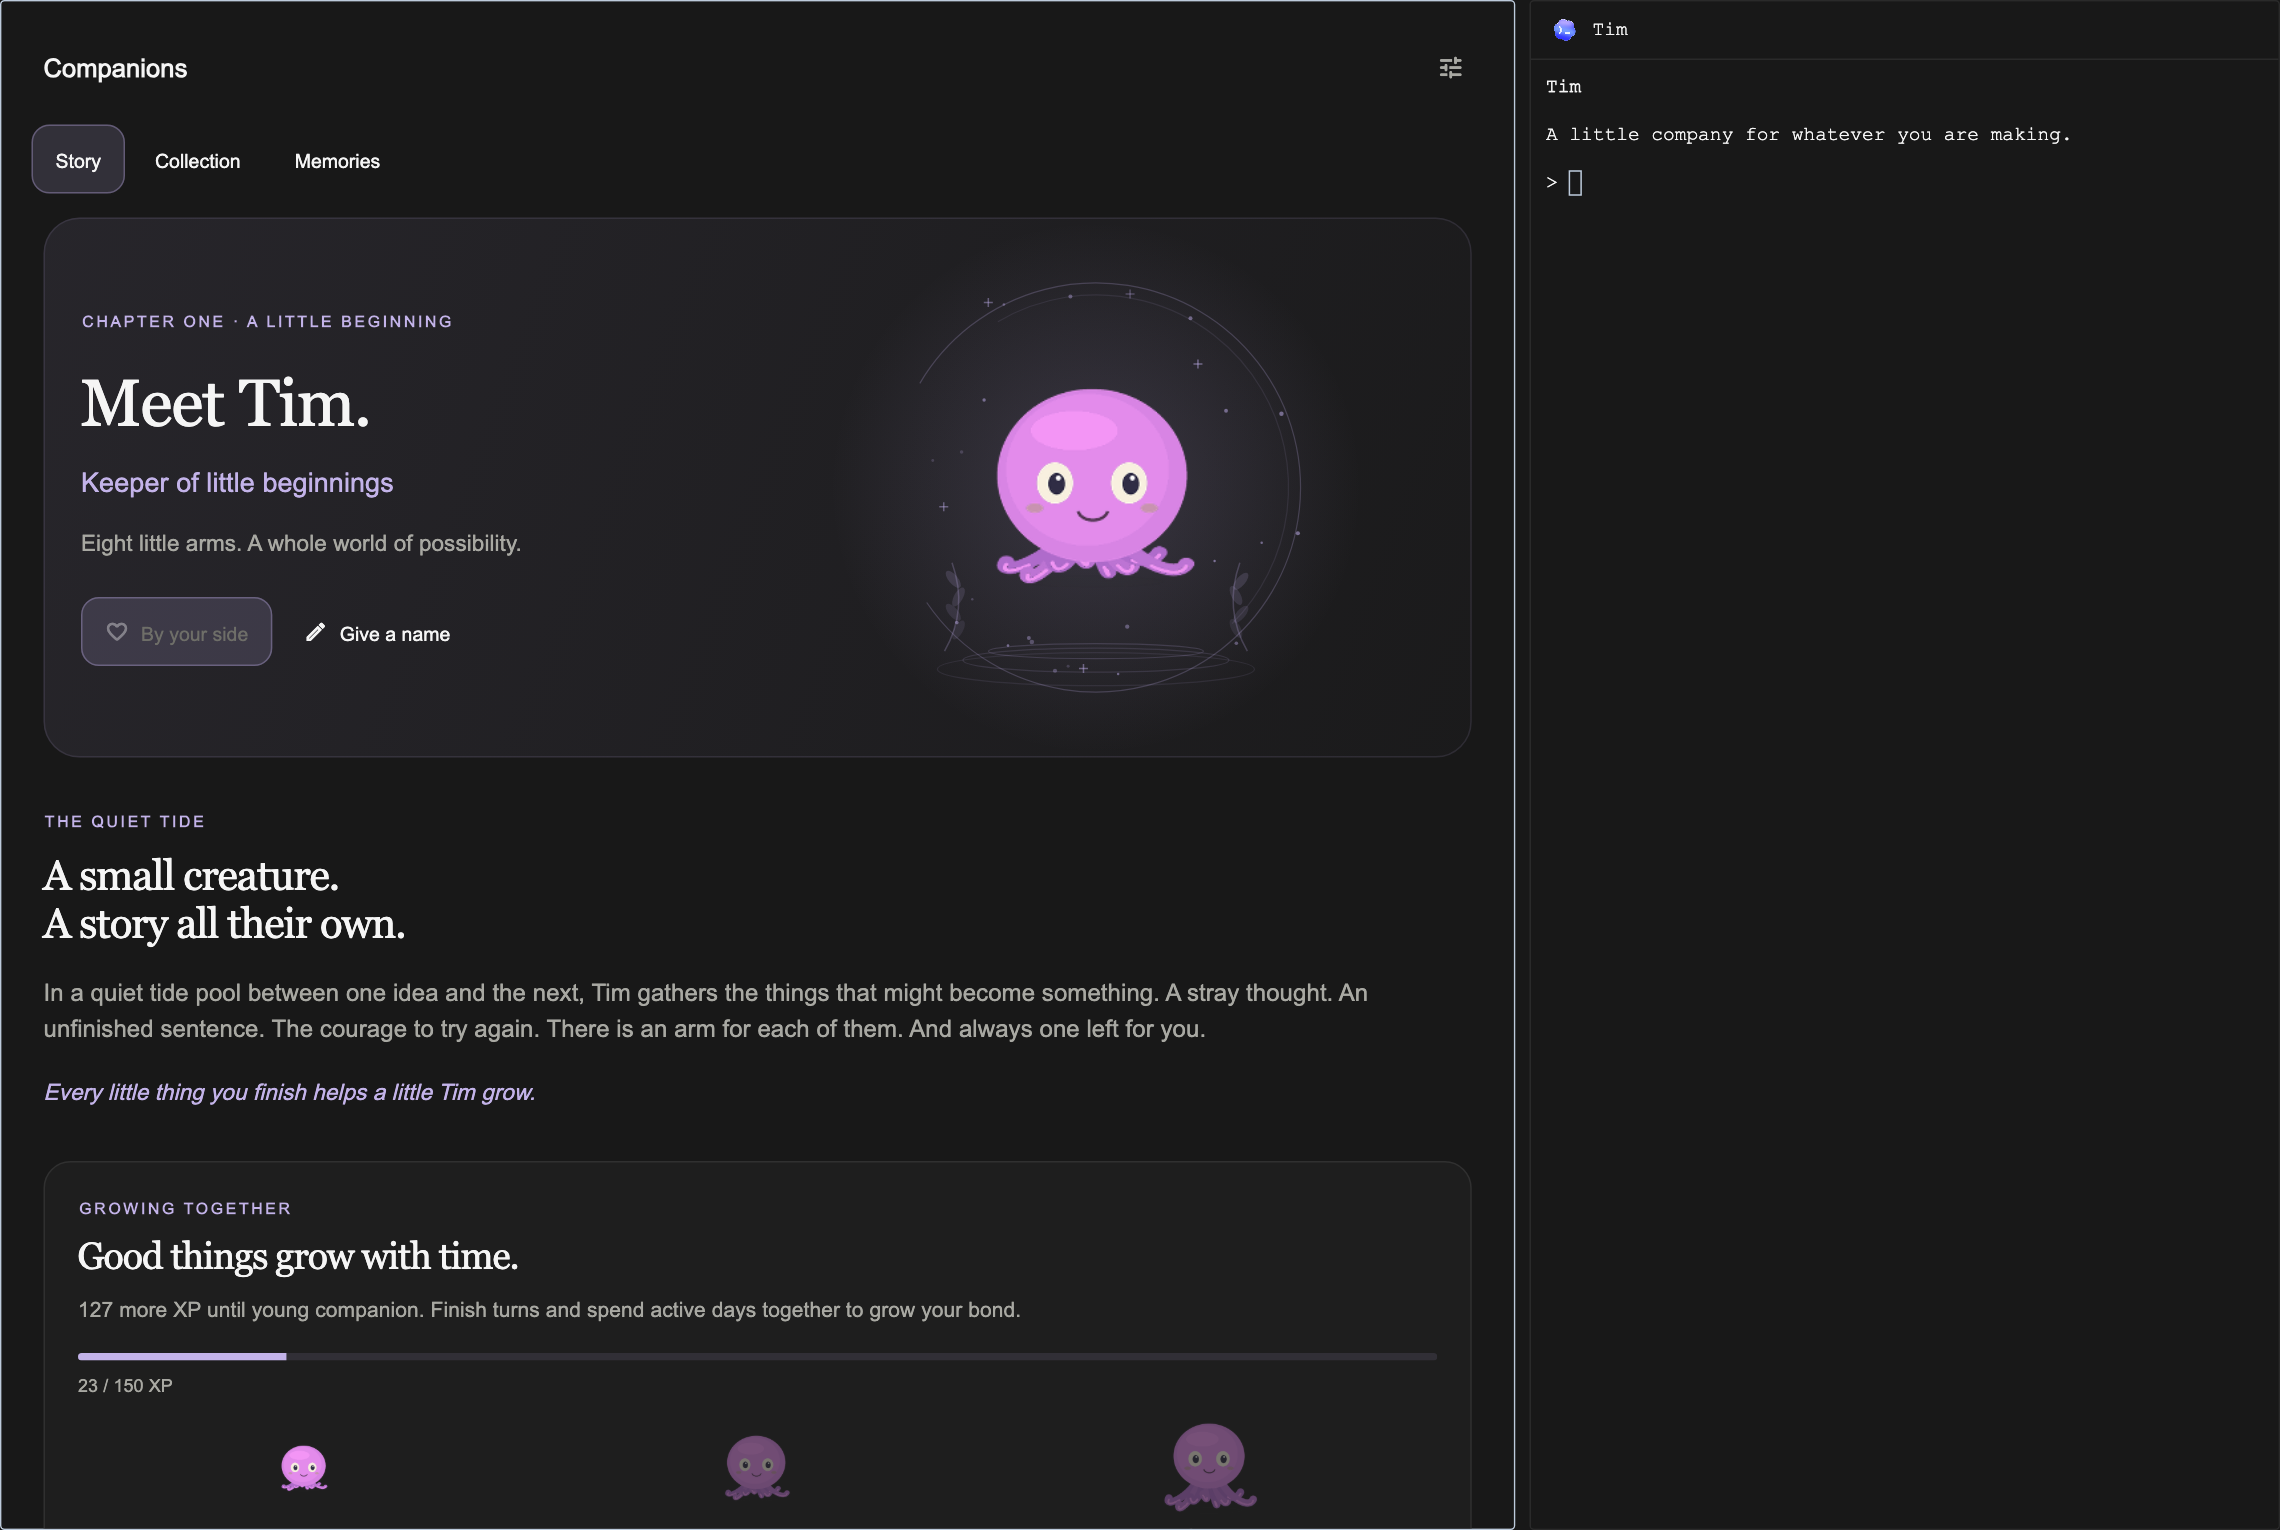
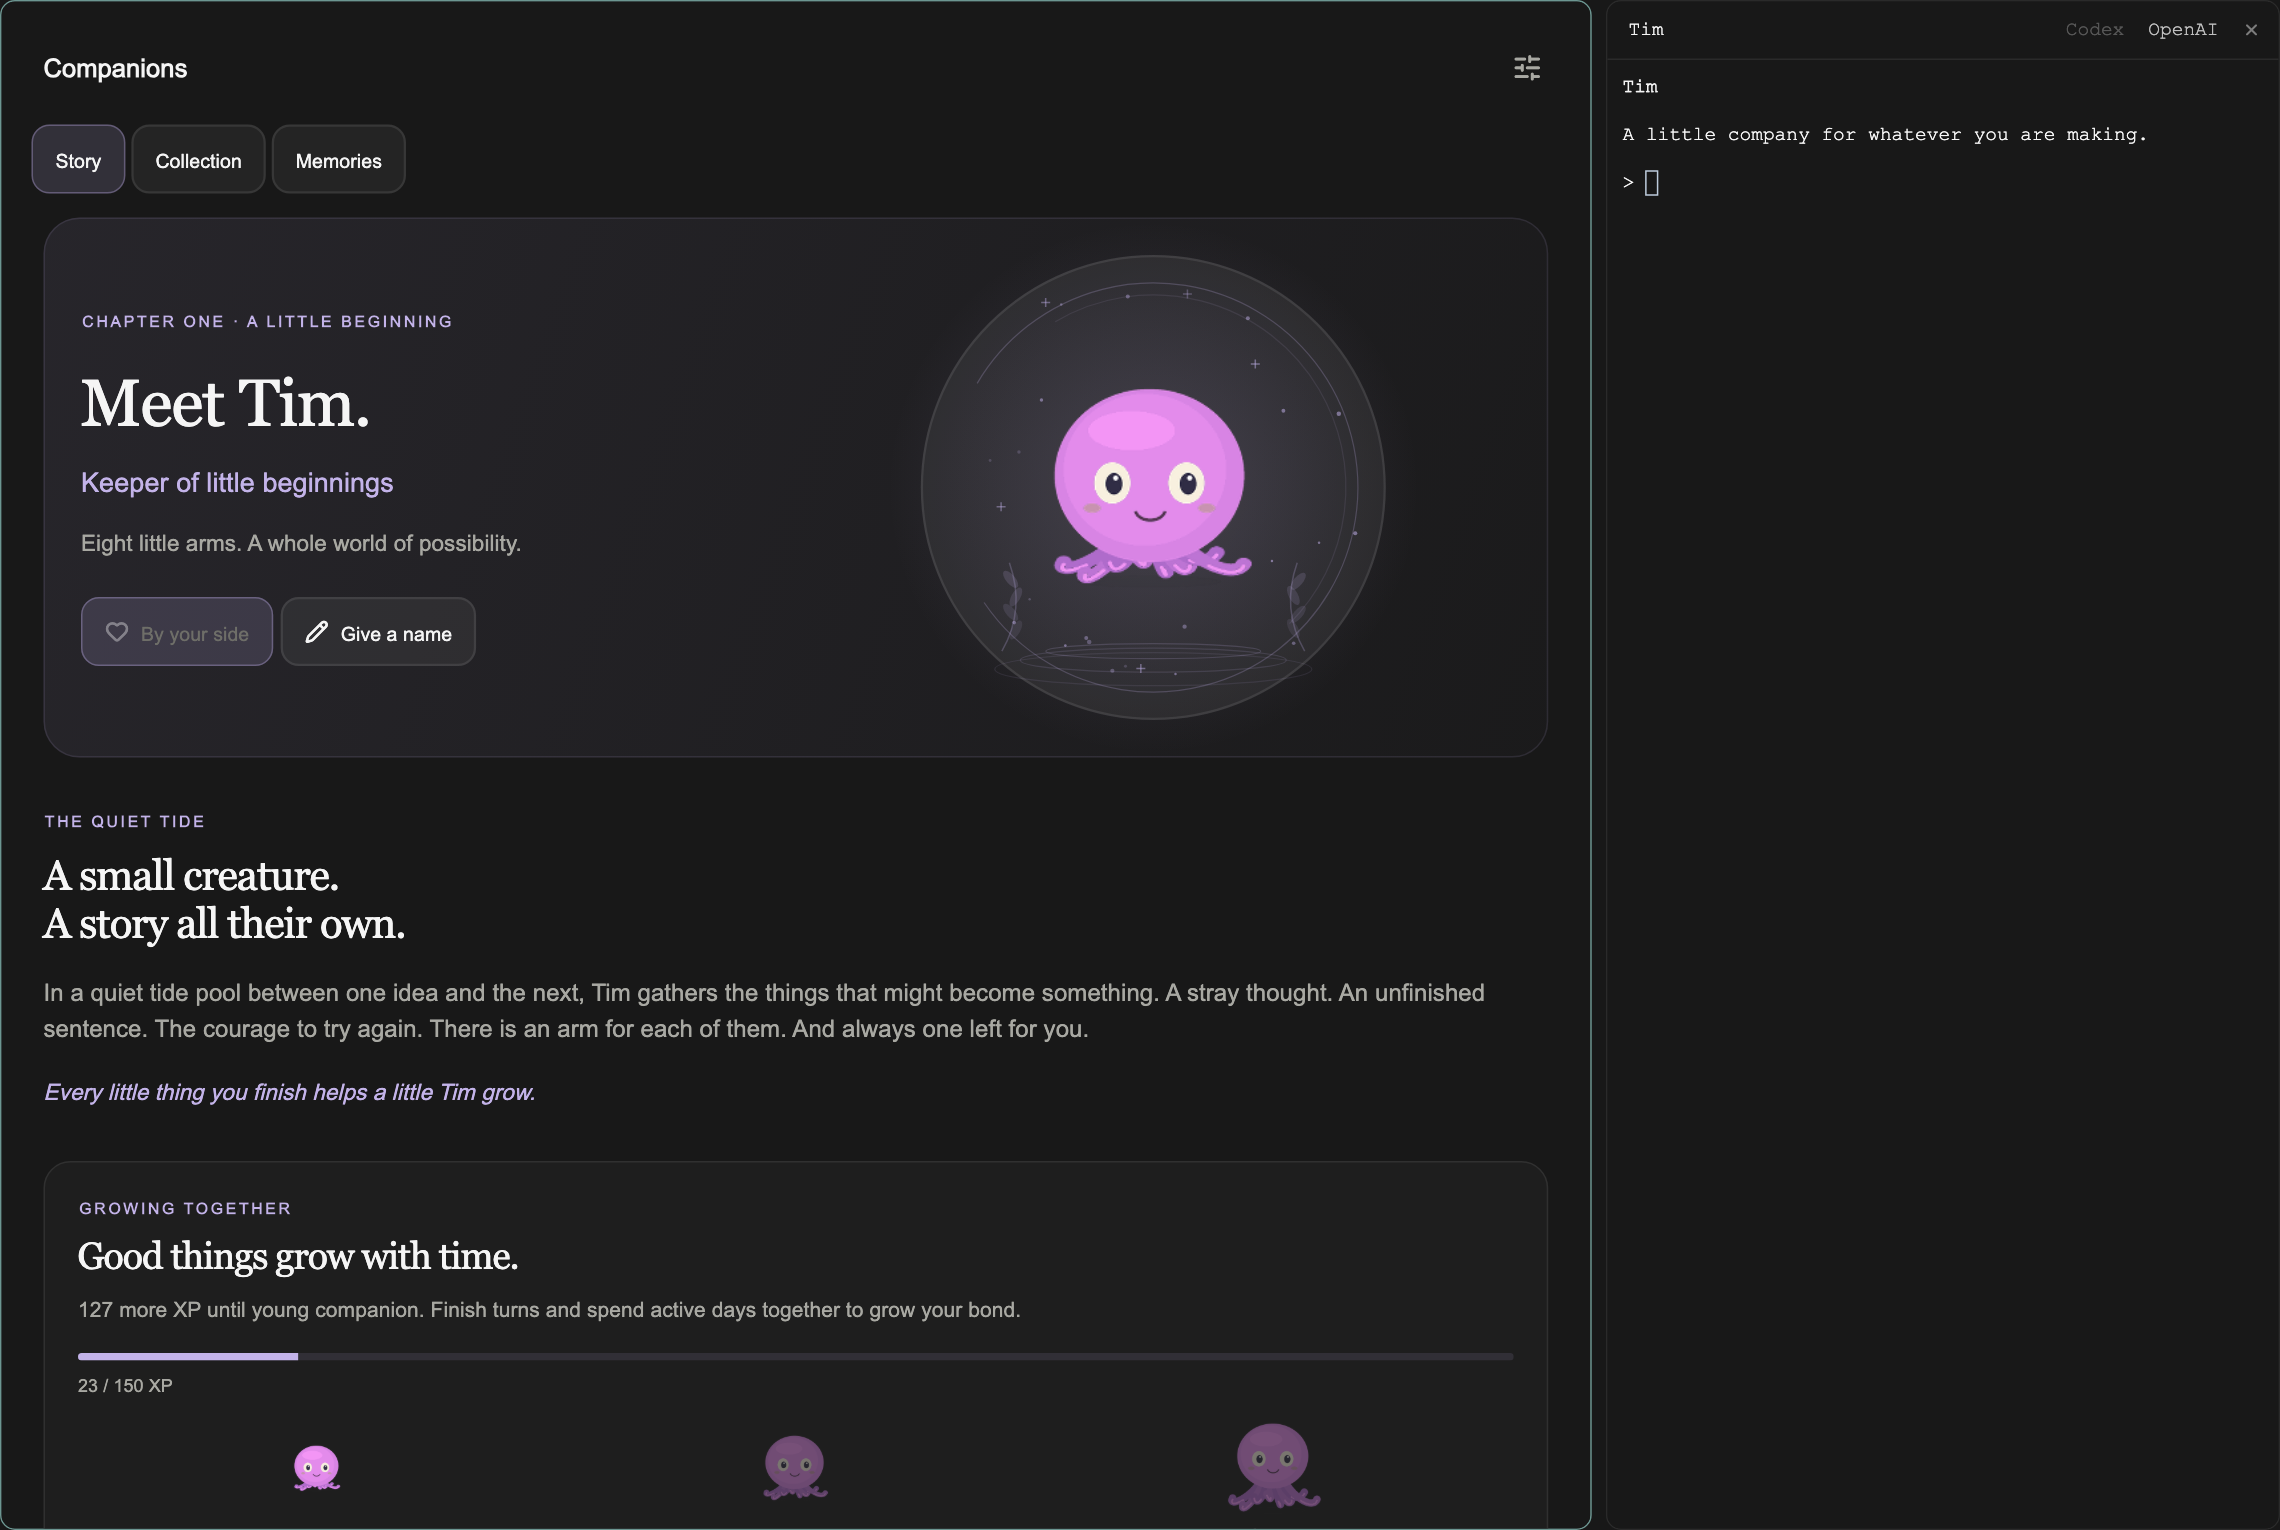
Remove duplicate agent switch from Companions viewer (#595)

diff --git a/desktop/lib/companions/companion_home.dart b/desktop/lib/companions/companion_home.dart
@@ -18,7 +18,6 @@ import '../state/dial_status.dart';
 import '../theme/app_theme.dart';
 import '../widgets/daemon_illustration.dart';
 import 'companion_dial.dart';
-import 'companion_engine_picker.dart';
 import 'companion_story.dart';
 import 'memory_review_text.dart';
 import 'coding_memory_connection.dart';
@@ -37,8 +36,6 @@ class CompanionHome extends StatefulWidget {
     required this.onHatch,
     required this.onOpenControls,
     this.onOpenConversation,
-    this.onSelectEngine,
-    this.openingTerminal = false,
     this.terminalStatus,
     this.dial,
     this.onDeviceSettings,
@@ -49,8 +46,6 @@ class CompanionHome extends StatefulWidget {
   final ValueChanged<ZooEgg> onHatch;
   final ValueChanged<String> onOpenControls;
   final VoidCallback? onOpenConversation;
-  final ValueChanged<String>? onSelectEngine;
-  final bool openingTerminal;
   final String? terminalStatus;
   final DialState? dial;
   final void Function(String, Map<String, Object?>)? onDeviceSettings;
@@ -210,116 +205,93 @@ class _CompanionHomeState extends State<CompanionHome> {
     return Material(
       key: const ValueKey('companion-home'),
       color: AppColors.background,
-      child: LayoutBuilder(
-        builder: (context, constraints) {
-          final enginePicker = CompanionEnginePicker(
-            engine: widget.brain.pairEngine,
-            onSelected: widget.onSelectEngine,
-            busy: widget.openingTerminal,
-          );
-          final viewer = Column(
-            children: [
-              Padding(
-                padding: const EdgeInsets.fromLTRB(28, 20, 18, 14),
-                child: Column(
-                  crossAxisAlignment: CrossAxisAlignment.start,
-                  children: [
-                    Row(
-                      children: [
-                        Expanded(
-                          child: Text(
-                            'Companions',
-                            style: ink(17)
-                                .copyWith(fontWeight: FontWeight.w600),
-                          ),
-                        ),
-                        if (constraints.maxWidth >= 500) enginePicker,
-                        IconButton(
-                          tooltip: 'Companion settings',
-                          key: const ValueKey('companion-settings'),
-                          onPressed: () => widget.onOpenControls('settings'),
-                          icon: Icon(
-                            AppIcons.slidersHorizontal,
-                            size: 20,
-                            color: AppColors.textSoft,
-                          ),
-                        ),
-                      ],
-                    ),
-                    if (constraints.maxWidth < 500) enginePicker,
-                  ],
+      child: Column(
+        children: [
+          Padding(
+            padding: const EdgeInsets.fromLTRB(28, 20, 18, 14),
+            child: Row(
+              children: [
+                Expanded(
+                  child: Text(
+                    'Companions',
+                    style: ink(17).copyWith(fontWeight: FontWeight.w600),
+                  ),
                 ),
-              ),
-              Padding(
-                padding: const EdgeInsets.fromLTRB(20, 0, 20, 10),
-                child: Row(
-                  children: [
-                    Expanded(
-                      child: Wrap(
-                        spacing: 4,
-                        runSpacing: 4,
-                        children: [
-                          for (final section in [
-                            'Story',
-                            'Collection',
-                            'Memories',
-                          ])
-                            Semantics(
-                              selected: _section == section,
-                              child: _button(
-                                section,
-                                () => _selectSection(section),
-                                primary: _section == section,
-                                key: ValueKey('companion-nav-$section'),
-                              ),
-                            ),
-                        ],
-                      ),
-                    ),
-                  ],
+                IconButton(
+                  tooltip: 'Companion settings',
+                  key: const ValueKey('companion-settings'),
+                  onPressed: () => widget.onOpenControls('settings'),
+                  icon: Icon(
+                    AppIcons.slidersHorizontal,
+                    size: 20,
+                    color: AppColors.textSoft,
+                  ),
                 ),
-              ),
-              if (widget.terminalStatus != null)
-                Padding(
-                  padding: const EdgeInsets.fromLTRB(28, 0, 28, 10),
-                  child: Row(
+              ],
+            ),
+          ),
+          Padding(
+            padding: const EdgeInsets.fromLTRB(20, 0, 20, 10),
+            child: Row(
+              children: [
+                Expanded(
+                  child: Wrap(
+                    spacing: 4,
+                    runSpacing: 4,
                     children: [
-                      Expanded(
-                        child: Text(
-                          widget.terminalStatus!,
-                          style: ink(13, AppColors.textSoft),
+                      for (final section in ['Story', 'Collection', 'Memories'])
+                        Semantics(
+                          selected: _section == section,
+                          child: _button(
+                            section,
+                            () => _selectSection(section),
+                            primary: _section == section,
+                            key: ValueKey('companion-nav-$section'),
+                          ),
                         ),
-                      ),
-                      if (widget.onOpenConversation != null)
-                        _button('Open terminal', widget.onOpenConversation),
                     ],
                   ),
                 ),
-              Expanded(
-                child: SingleChildScrollView(
-                  key: _memoryViewport,
-                  controller: _scroll,
-                  padding: const EdgeInsets.fromLTRB(28, 6, 28, 40),
-                  child: Align(
-                    alignment: Alignment.topCenter,
-                    child: ConstrainedBox(
-                      constraints: const BoxConstraints(maxWidth: 1100),
-                      child: switch (_section) {
-                        'Collection' => _collection(),
-                        'Memories' => _memories(),
-                        _ =>
-                          zoo.zoo.daemons.isEmpty && _previewSpecies == null
-                              ? _nest()
-                              : _story(),
-                      },
+              ],
+            ),
+          ),
+          if (widget.terminalStatus != null)
+            Padding(
+              padding: const EdgeInsets.fromLTRB(28, 0, 28, 10),
+              child: Row(
+                children: [
+                  Expanded(
+                    child: Text(
+                      widget.terminalStatus!,
+                      style: ink(13, AppColors.textSoft),
                     ),
                   ),
+                  if (widget.onOpenConversation != null)
+                    _button('Open terminal', widget.onOpenConversation),
+                ],
+              ),
+            ),
+          Expanded(
+            child: SingleChildScrollView(
+              key: _memoryViewport,
+              controller: _scroll,
+              padding: const EdgeInsets.fromLTRB(28, 6, 28, 40),
+              child: Align(
+                alignment: Alignment.topCenter,
+                child: ConstrainedBox(
+                  constraints: const BoxConstraints(maxWidth: 1100),
+                  child: switch (_section) {
+                    'Collection' => _collection(),
+                    'Memories' => _memories(),
+                    _ => zoo.zoo.daemons.isEmpty && _previewSpecies == null
+                        ? _nest()
+                        : _story(),
+                  },
                 ),
               ),
-            ],
-          );
-          return viewer;
-        },
+            ),
+          ),
+        ],
       ),
     );
   }

diff --git a/desktop/lib/screens/swarm_screen.dart b/desktop/lib/screens/swarm_screen.dart
@@ -4027,8 +4027,8 @@ class _SwarmScreenState extends State<SwarmScreen> {
     unawaited(_openCompanionTerminal(key));
   }
 
-  Future<void> _openCompanionTerminal(String key, {String? engine}) async {
-    final result = await _brain.openConversation(engine: engine);
+  Future<void> _openCompanionTerminal(String key) async {
+    final result = await _brain.openConversation();
     if (!mounted || _companionOpeningKey != key) return;
     _companionOpeningKey = null;
     if (key != '${_zoo.scope}:${_zoo.paired?.uid}' || !_creatureEnabled) return;
@@ -4083,26 +4083,6 @@ class _SwarmScreenState extends State<SwarmScreen> {
     return result;
   }
 
-  void _selectCompanionEngine(String engine) {
-    final uid = _zoo.paired?.uid;
-    if (uid == null || _companionOpeningKey != null || _zoo.isPreview) return;
-    if (_pairHarness case final pair?) {
-      unawaited(
-        app.changeAgent(pair.machineId, pair.agentId, engine).then((error) {
-          if (mounted && error != null) _showPaneActionHint(error);
-        }),
-      );
-      return;
-    }
-    final key = '${_zoo.scope}:$uid';
-    setState(() {
-      _companionAttemptedKey = key;
-      _companionOpeningKey = key;
-      _companionTerminalError = null;
-    });
-    unawaited(_openCompanionTerminal(key, engine: engine));
-  }
-
   Widget _companionViewer(BuildContext context) => CompanionHome(
     key: ValueKey('companion-home:${_zoo.scope}'),
     face: _face,
@@ -4112,10 +4092,6 @@ class _SwarmScreenState extends State<SwarmScreen> {
         : app.openCodingMemoryConnection,
     onHatch: _hatch,
     onOpenControls: _openCompanionControls,
-    onSelectEngine: _zoo.isPreview || !_brain.active || _zoo.paired == null
-        ? null
-        : _selectCompanionEngine,
-    openingTerminal: _companionOpeningKey != null,
     terminalStatus:
         _companionTerminalError ??
         (_companionOpeningKey != null

diff --git a/desktop/test/companion_home_test.dart b/desktop/test/companion_home_test.dart
@@ -268,7 +268,6 @@ void main() {
                       : () => codingMemory,
                   onHatch: (_) {},
                   onOpenControls: (_) {},
-                  onSelectEngine: (_) {},
                 ),
               ),
             ),

diff --git a/desktop/design/companions.md b/desktop/design/companions.md
@@ -46,12 +46,11 @@ computer; this is not cross-machine memory sync.
 
 ![Pending memory review with source evidence and guarded approval, using synthetic fixture data](companion-memory-inbox.png)
 
-The header's **Powered by** menu chooses Codex or Claude Code for the collection.
-A new collection asks the person to choose; there is no Claude-first default or
-automatic fallback when usage runs out. Existing collections keep their agent.
-The choice stays visible across Story, Collection and Memories, and moves below
-the title in a narrow viewer. Selecting an uninstalled agent explains which one
-is missing and keeps the current choice.
+The agent and model controls live in the right conversation pane's header.
+The viewer header contains the Companions title and settings button, with no
+duplicate agent selector at any width. Existing collections keep their agent
+and do not switch automatically when usage runs out. Selecting an uninstalled
+agent explains which one is missing and keeps the current choice.
 
 Opening the home starts or resumes the selected pair DSH through a UI-only local
 socket request, without a prompt, pasted text or Enter key. The complete engine
